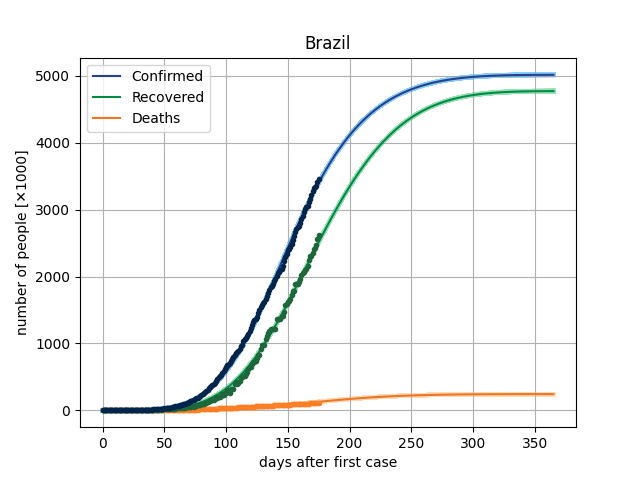
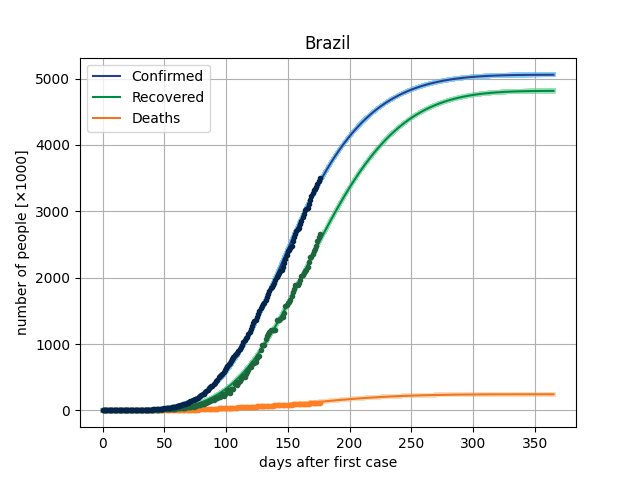
2020/08/22 Update

diff --git a/cov19/region.py b/cov19/region.py
@@ -74,6 +74,7 @@ class region:
         df,
         rescaling_by  = 1,
         last_index    = -1,
+        time_col      = 'Updated',
         confirmed_col = 'Confirmed',
         recovered_col = 'Recovered',
         deaths_col    = 'Deaths',
@@ -103,19 +104,19 @@ class region:
         df_Region = df.loc[(df[reg_column] == self.name) & (df['AdminRegion1'] == '')]
         
         # getting the first case
-        first_case = df_Region['Updated'].min()
+        first_case = df_Region[time_col].min()
         
-        # couting teh days after first case
-        df_Region['Days'] = (df_Region['Updated'] - first_case).dt.days.astype(float)
+        # couting the days after first case
+        df_Region['Days'] = (df_Region[time_col] - first_case).dt.days.astype(float)
         
         # rescaling cases by a factor
-        df_Region[['Confirmed','Actives','Deaths','Recovered']] = df_Region[['Confirmed','Actives','Deaths','Recovered']]*rescaling_by
+        df_Region[[confirmed_col,actives_col,deaths_col,recovered_col]] = df_Region[[confirmed_col,actives_col,deaths_col,recovered_col]]*rescaling_by
         self.dataframe = df_Region
         
         # converting columns to lists
         self.days_list = df_Region['Days'].to_numpy()
-        self.confirmed_list = df_Region['Confirmed'].to_numpy()
-        self.death_list = df_Region['Deaths'].to_numpy()
-        self.recovered_list = df_Region['Recovered'].to_numpy()
+        self.confirmed_list = df_Region[confirmed_col].to_numpy()
+        self.death_list = df_Region[deaths_col].to_numpy()
+        self.recovered_list = df_Region[recovered_col].to_numpy()
         
         
